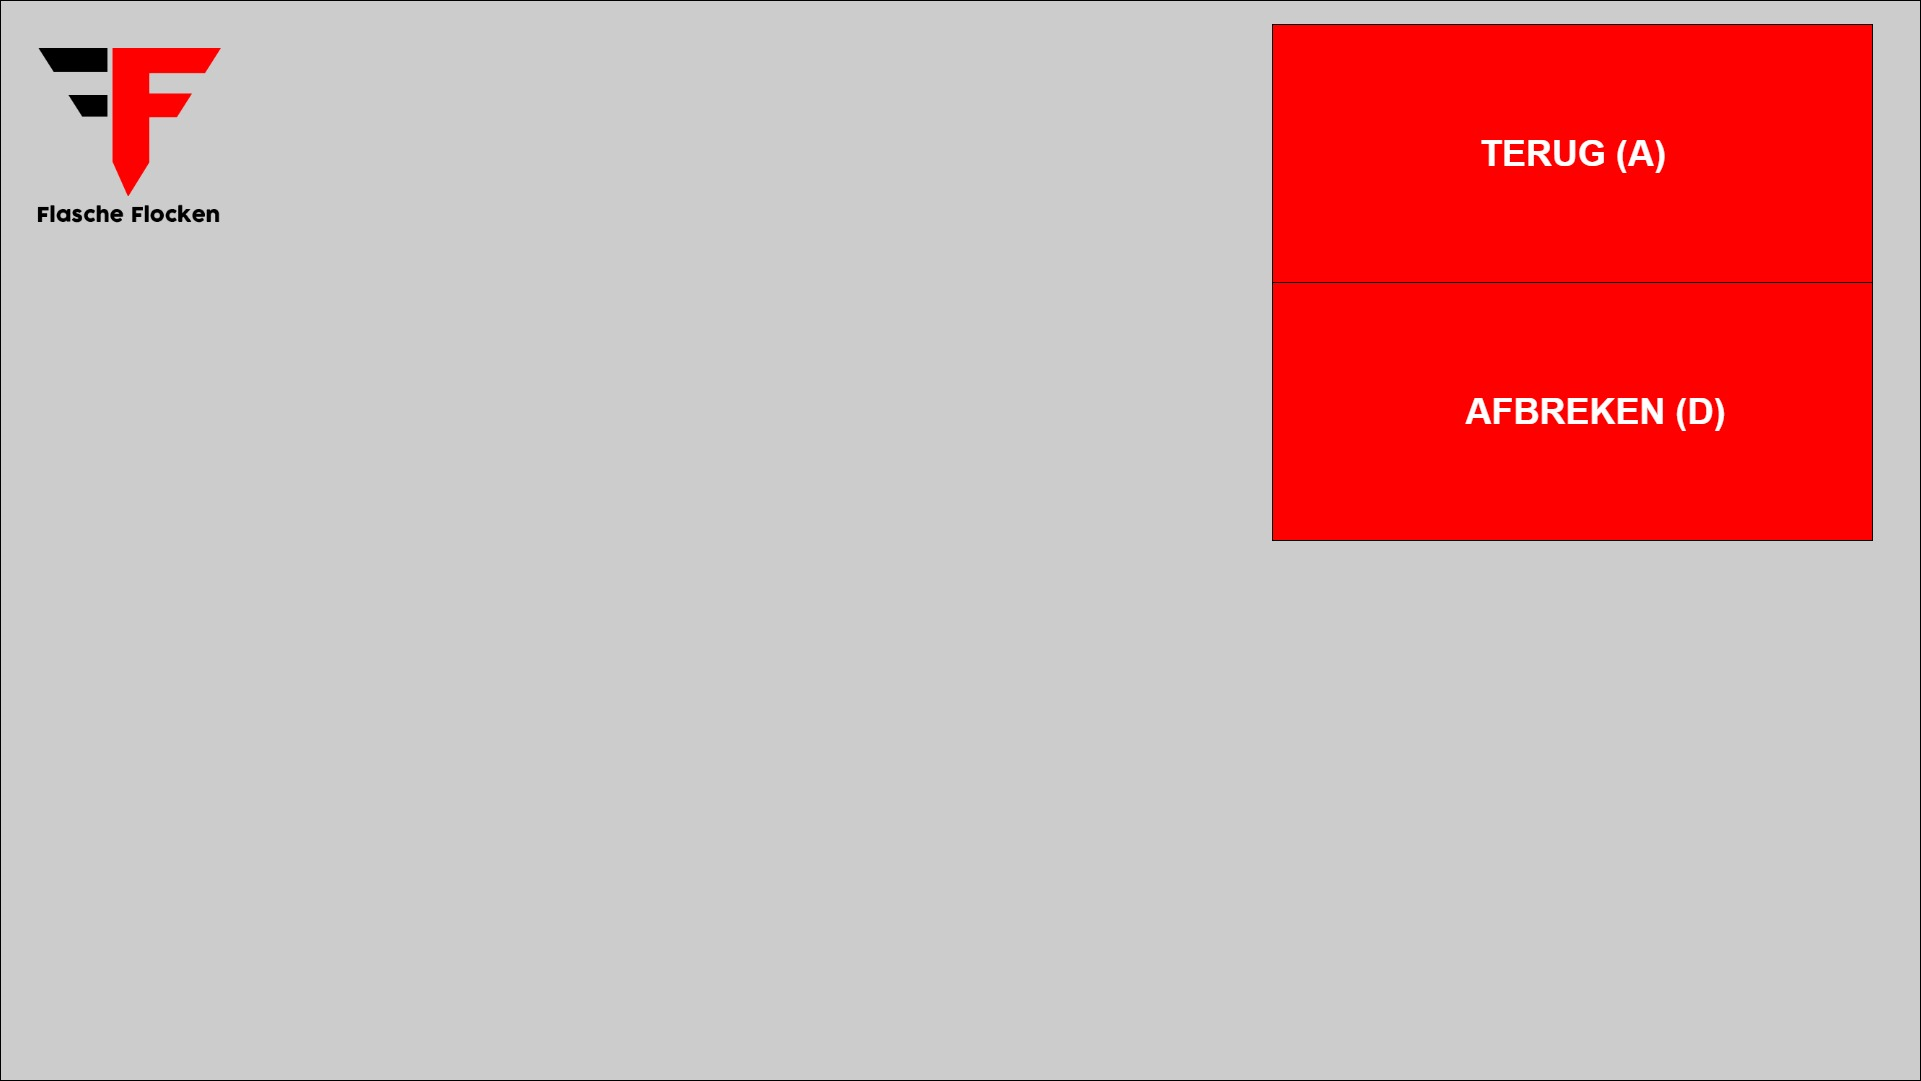
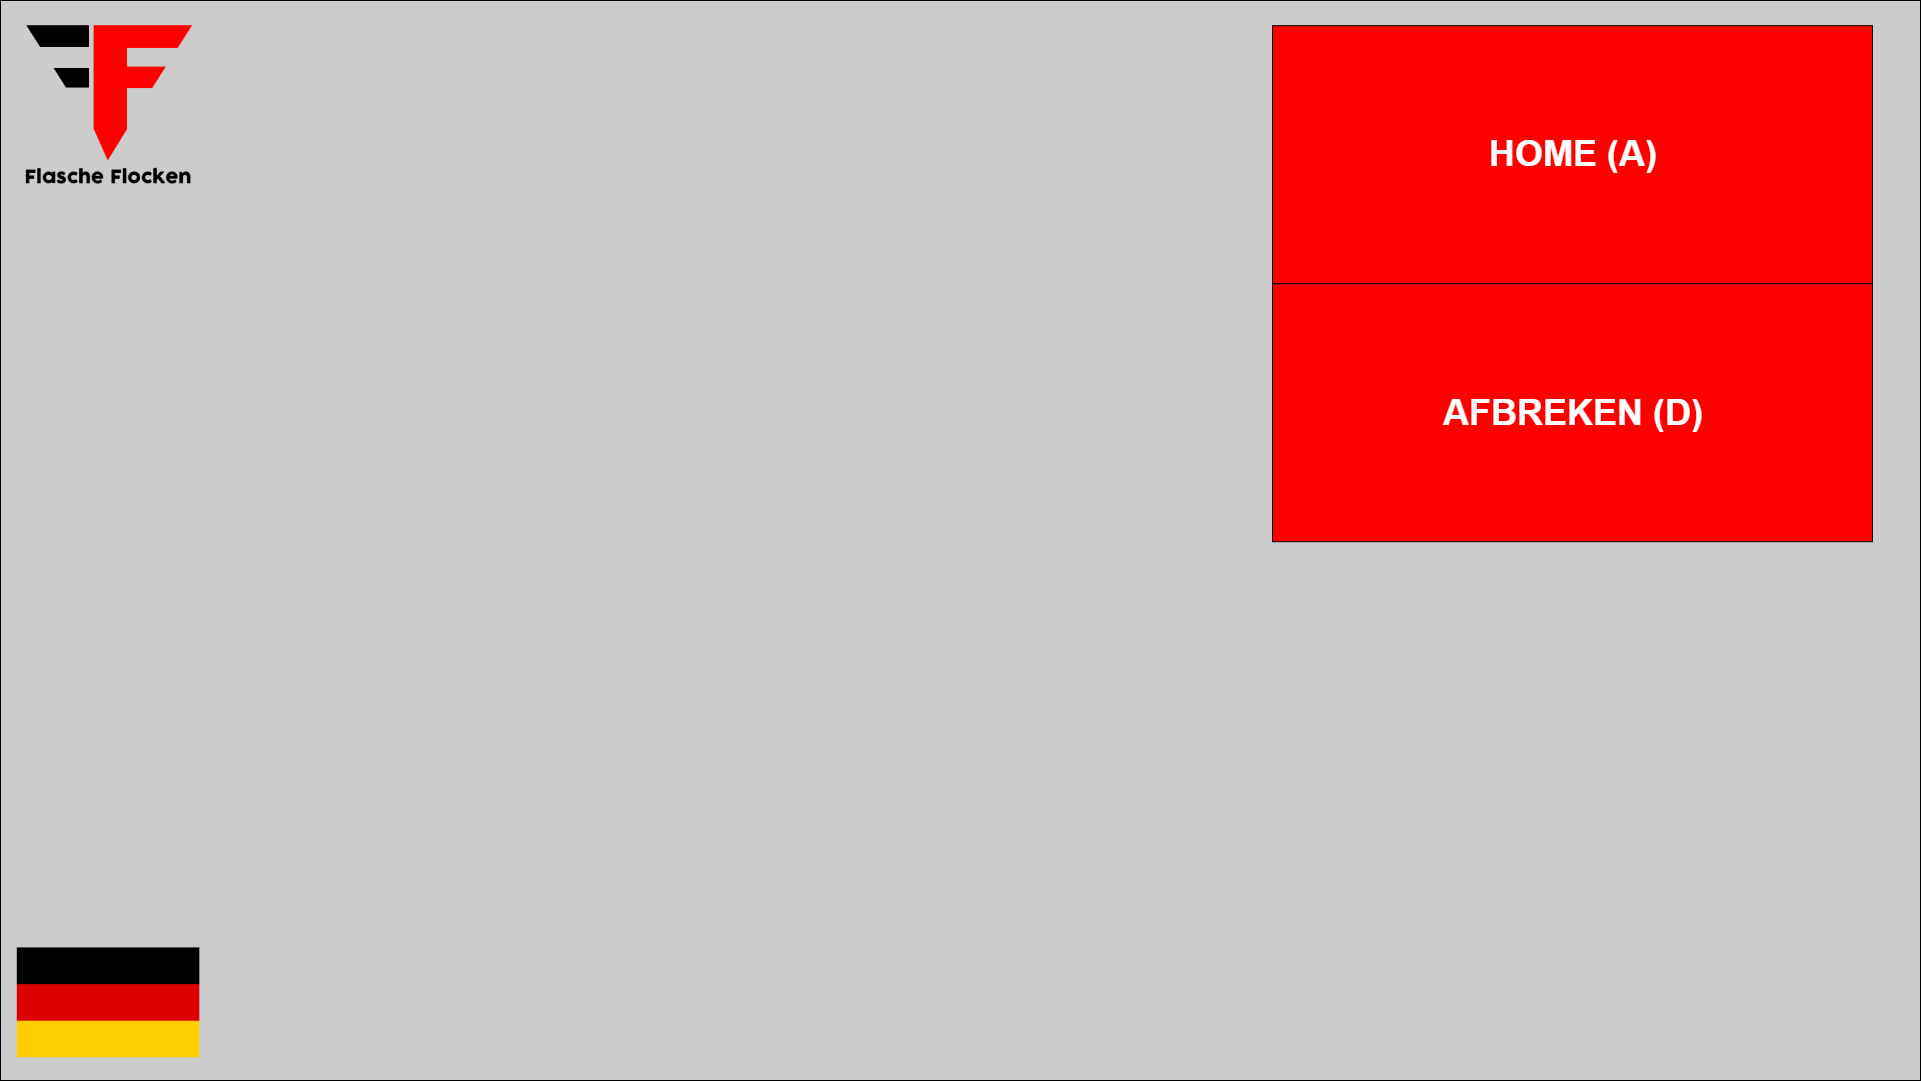
changed the background image. and did some cleanup and added option 4

diff --git a/GUI/src/main/java/org/FF/GUI/views/Painter.java b/GUI/src/main/java/org/FF/GUI/views/Painter.java
@@ -30,9 +30,7 @@ public class Painter {
 	private JLabel errorMsgAmount;
 	private JLabel errorMsgLogin;
 	private int acountID;
-	private JLabel banknotesTenOption;
-	private JLabel banknotesTwentyOption;
-	private JLabel banknotesFiftyOption;
+	private JLabel banknotesTenOption, banknotesTwentyOption, banknotesFiftyOption, banknotesOptionFour;
 	
 	/**
 	 * Sets up the begin frame and the keypadListener
@@ -187,36 +185,42 @@ public class Painter {
 				
 				boolean[] optionAvailable = moneydispenser.availableOptions(keypadSwitchScreenListener.getBedrag());
 				
-				this.banknotesTenOption = new JLabel();
-				this.banknotesTenOption.setText("kies zoveel mogelijk 10 ofzo (1)");
-				this.banknotesTenOption.setBounds(350, 800, 660, 45);
+				this.banknotesTenOption = new JLabel("kies zoveel mogelijk 10 ofzo (1)", SwingConstants.CENTER);
+				this.banknotesTenOption.setBounds(225, 675, 660, 145);
 				this.banknotesTenOption.setFont(new Font(this.errorMsgLogin.getFont().getName(),Font.BOLD, 36));
-				this.banknotesTenOption.setForeground(Color.black);
+				this.banknotesTenOption.setForeground(Color.white);
 				this.banknotesTenOption.setBackground(Color.decode("#FF0000"));
 				this.banknotesTenOption.setVisible(optionAvailable[0]);
 				this.banknotesTenOption.setOpaque(true);
 
-				this.banknotesTwentyOption = new JLabel();
-				this.banknotesTwentyOption.setText("kies zoveel mogelijk 20 ofzo (2)");
-				this.banknotesTwentyOption.setBounds(350, 870, 660, 45);
+				this.banknotesTwentyOption = new JLabel("kies zoveel mogelijk 20 ofzo (2)", SwingConstants.CENTER);
+				this.banknotesTwentyOption.setBounds(910, 675, 660, 145);
 				this.banknotesTwentyOption.setFont(new Font(this.errorMsgLogin.getFont().getName(),Font.BOLD, 36));
-				this.banknotesTwentyOption.setForeground(Color.black);
+				this.banknotesTwentyOption.setForeground(Color.white);
 				this.banknotesTwentyOption.setBackground(Color.decode("#FF0000"));
 				this.banknotesTwentyOption.setVisible(optionAvailable[1]);
 				this.banknotesTwentyOption.setOpaque(true);
 
-				this.banknotesFiftyOption = new JLabel();
-				this.banknotesFiftyOption.setText("kies zoveel mogelijk 50 ofzo (3)");
-				this.banknotesFiftyOption.setBounds(350, 940, 660, 45);
+				this.banknotesFiftyOption = new JLabel("kies zoveel mogelijk 50 ofzo (3)", SwingConstants.CENTER);
+				this.banknotesFiftyOption.setBounds(225, 850, 660, 145);
 				this.banknotesFiftyOption.setFont(new Font(this.errorMsgLogin.getFont().getName(),Font.BOLD, 36));
-				this.banknotesFiftyOption.setForeground(Color.black);
+				this.banknotesFiftyOption.setForeground(Color.white);
 				this.banknotesFiftyOption.setBackground(Color.decode("#FF0000"));
 				this.banknotesFiftyOption.setVisible(optionAvailable[2]);
 				this.banknotesFiftyOption.setOpaque(true);
 				
+				this.banknotesOptionFour = new JLabel("er wordt een keuze gemaakt (4)", SwingConstants.CENTER);
+				this.banknotesOptionFour.setBounds(910, 850, 660, 145);
+				this.banknotesOptionFour.setFont(new Font(this.errorMsgLogin.getFont().getName(),Font.BOLD, 36));
+				this.banknotesOptionFour.setForeground(Color.white);
+				this.banknotesOptionFour.setBackground(Color.decode("#FF0000"));
+				this.banknotesOptionFour.setVisible(optionAvailable[3]);
+				this.banknotesOptionFour.setOpaque(true);
+				
 				p2.add(this.banknotesTenOption, JLayeredPane.POPUP_LAYER);
 				p2.add(this.banknotesTwentyOption, JLayeredPane.POPUP_LAYER);
 				p2.add(this.banknotesFiftyOption, JLayeredPane.POPUP_LAYER);
+				p2.add(this.banknotesOptionFour, JLayeredPane.POPUP_LAYER);
 				
 				keypadSwitchScreenListener.setImgSelectors(ImgBackgrounds.FH1_1, null, null, ImgBackgrounds.FW1_1, null, ImgBackgrounds.FB1_1, null);
 				break;				

diff --git a/GUI/src/main/java/org/FF/GUI/common/config/Moneydispenser.java b/GUI/src/main/java/org/FF/GUI/common/config/Moneydispenser.java
@@ -66,16 +66,19 @@ public class Moneydispenser {
 	}
 	
 	public boolean[] availableOptions(int money) {
-		boolean[] availableOptions = {false,false,false};
+		boolean[] availableOptions = {false,false,false,false};
 		
 		if(banknotes_10 >= 5 && banknotes_20 >= 5 && banknotes_50 >= 5) {
 			availableOptions[0] = true;
+			availableOptions[3] = true;
 			if(money >= 20) {
 				availableOptions[1] = true;
 			}
 			if(money >= 50) {
 				availableOptions[2] = true;
 			}
+			
+			
 			
 			return availableOptions;
 		}
@@ -101,6 +104,10 @@ public class Moneydispenser {
 			if(money >= 20) {
 				availableOptions[1] = true;
 			}
+		}
+		
+		if(availableOptions[0] == true || availableOptions[1] == true || availableOptions[2] == true) {
+			availableOptions[3] = true;
 		}
 		
 		return availableOptions;

diff --git a/GUI/src/main/java/org/FF/GUI/common/database/ConnectionClass.java b/GUI/src/main/java/org/FF/GUI/common/database/ConnectionClass.java
@@ -8,8 +8,8 @@ public class ConnectionClass {
 
 	public static Connection conn = null;
 	private String url = "jdbc:mysql://localhost:3306/mydb?serverTimezone=Europe/Amsterdam&allowMultiQueries=true";
-	private final String username = "root"; // change to actual userName
-	private final String password = "Db6#_fhl90"; // change to actual password
+	private final String username = "username"; // change to actual userName
+	private final String password = "password"; // change to actual password
  
 	/**
 	 * 

diff --git a/GUI/src/main/java/org/FF/GUI/app/App.java b/GUI/src/main/java/org/FF/GUI/app/App.java
@@ -12,7 +12,7 @@ import org.FF.GUI.common.SerialConnection.SerialConnection;
 import org.FF.GUI.common.config.FileUpdate;
 import org.FF.GUI.common.config.Moneydispenser;
 import org.FF.GUI.views.Painter;
-
+			
 public class App {   
 	
 	private static FileUpdate file;
@@ -47,7 +47,6 @@ public class App {
     			}
     		}
     	});
-	
 
        }
         

diff --git a/GUI/src/main/java/org/FF/GUI/views/KeypadListener.java b/GUI/src/main/java/org/FF/GUI/views/KeypadListener.java
@@ -377,8 +377,6 @@ public class KeypadListener extends Thread{
 	 * @param input
 	 */
 	private void printBon(int input){
-		//serialConnectionBonprinter.sendData("1");
-		//serialConnectionBonprinter.sendData(Integer.toString(amountOutput));
 		painter.switchPane(imgSelectorS);	
 	}
 	
